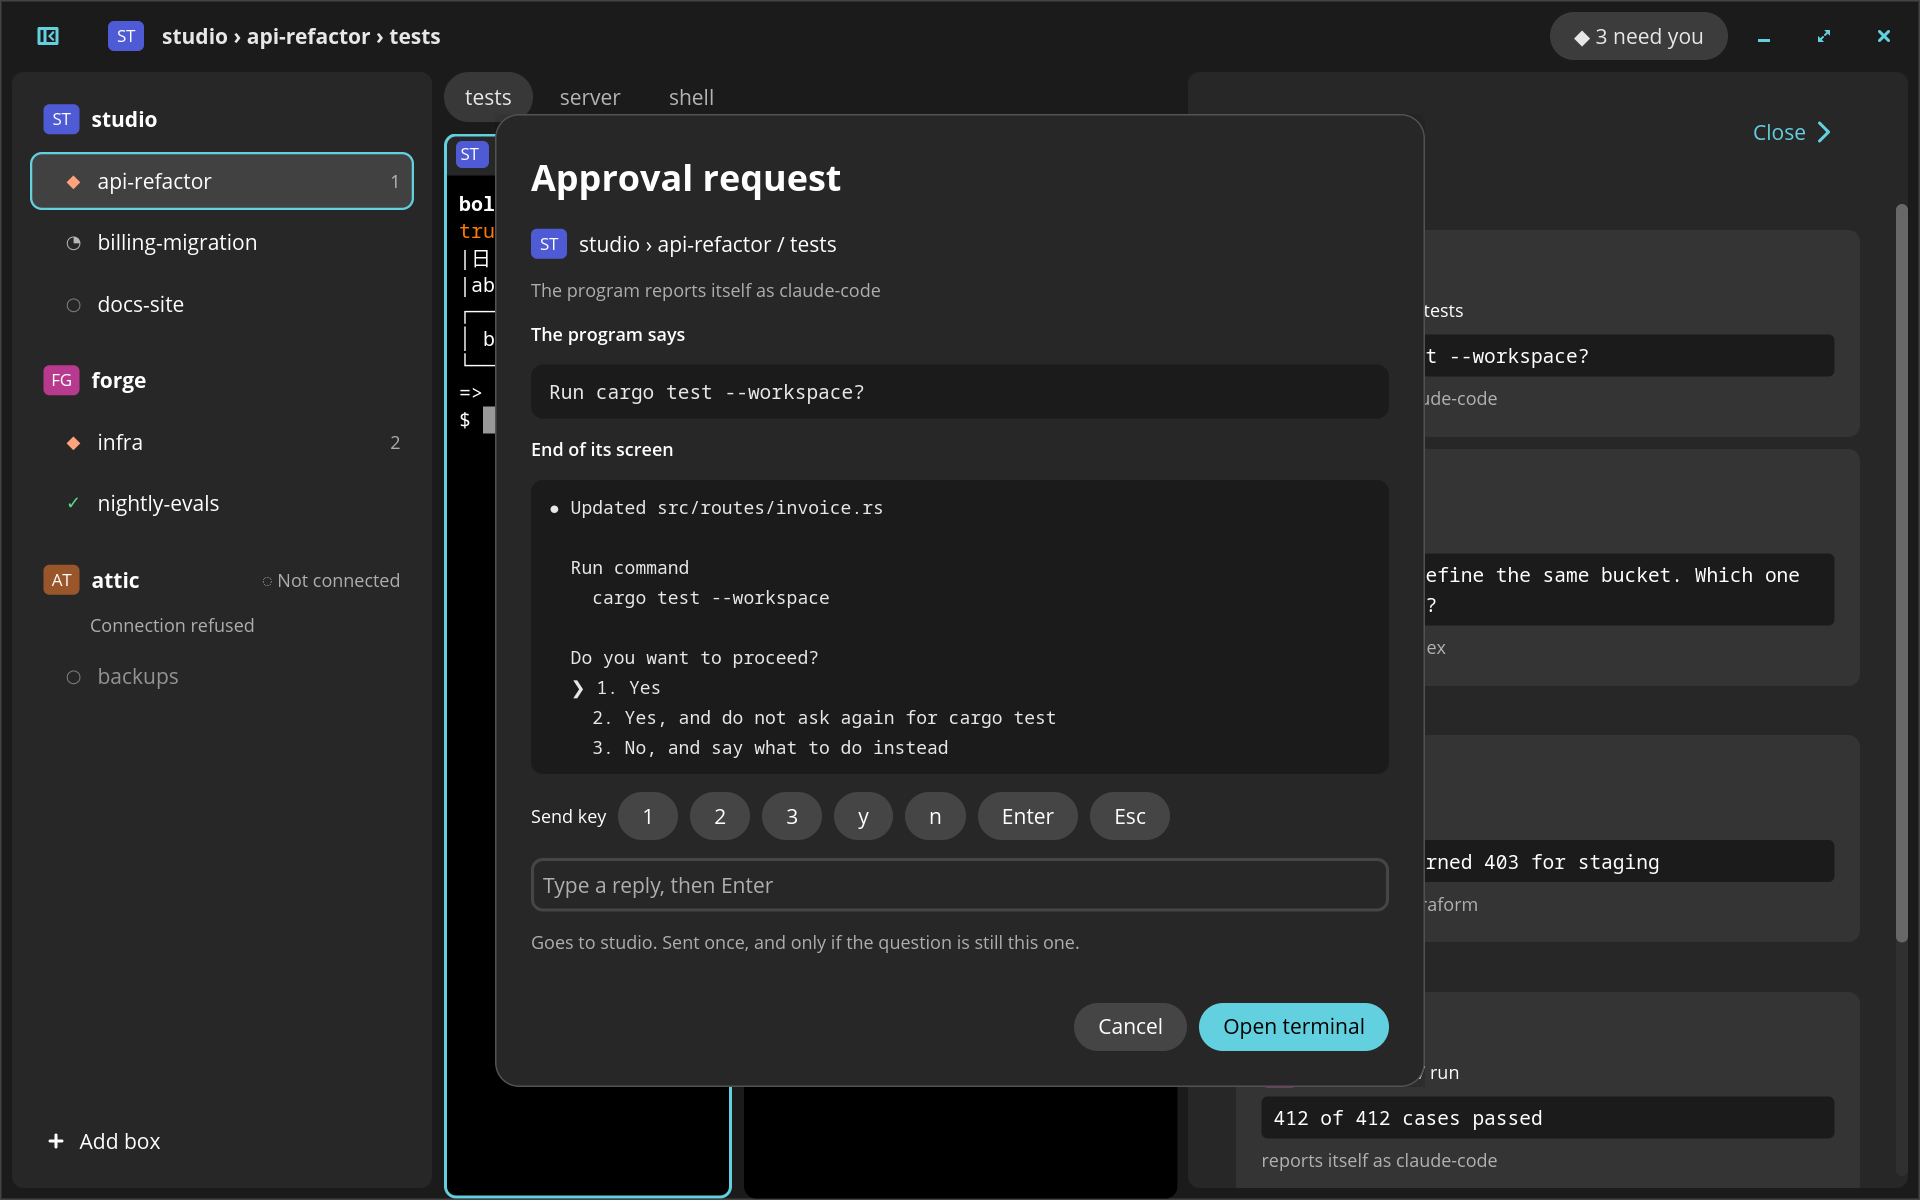
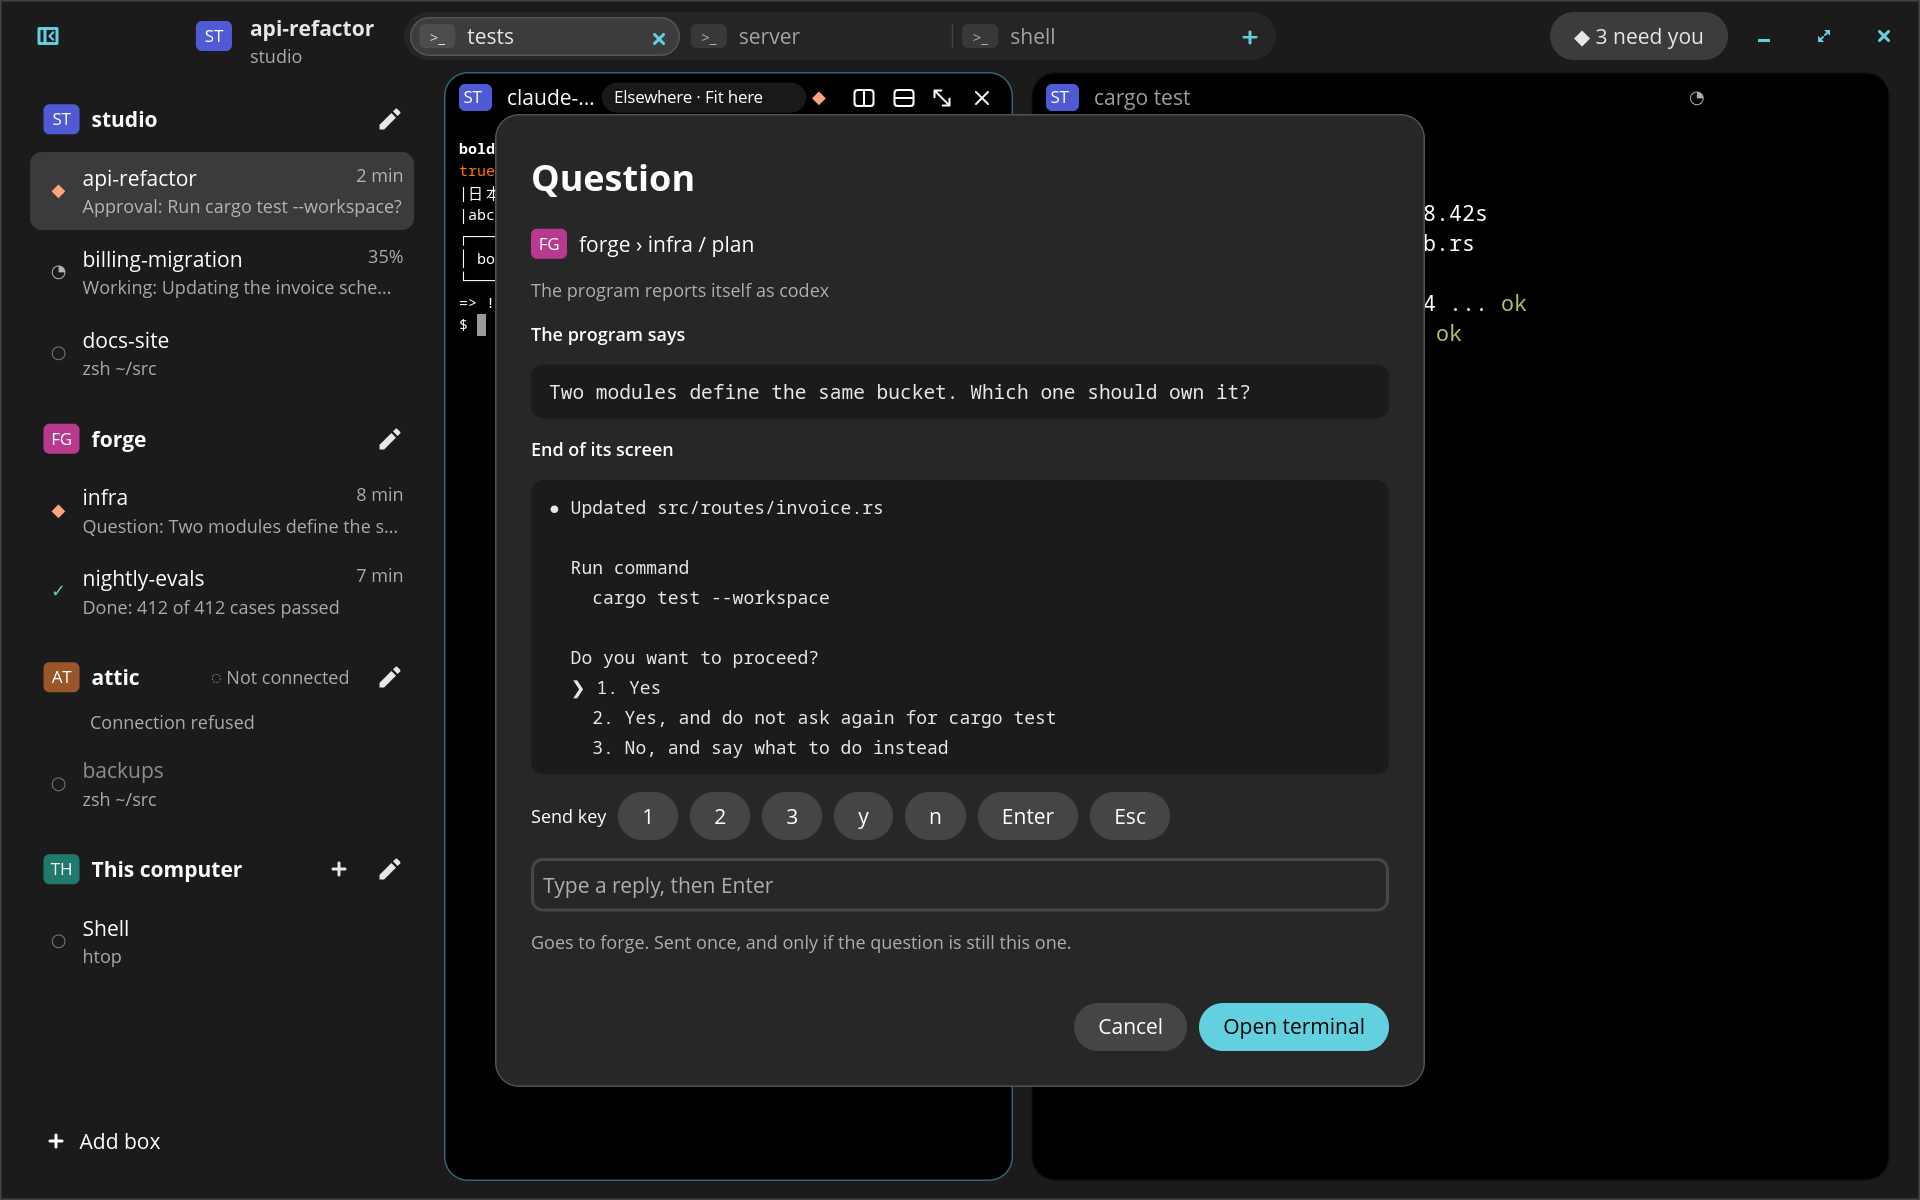
README: what it does, keys, and how the rex-rune core is updated

diff --git a/README.md b/README.md
@@ -2,11 +2,50 @@
 
 An unofficial [Rex](https://www.superlogical.com/rex) client for the COSMIC desktop, in Rust with libcosmic. Work in progress. Not affiliated with Superlogical or System76.
 
-![Demo window: boxes and sessions, split terminals, and one inbox for agents](docs/images/demo.png)
+![Demo window: boxes and their sessions in the sidebar, tabs in the title bar, and two split terminals with their pane buttons](docs/images/demo.png)
 
-## A fork, in two halves
+## What it does
 
-The backend is [rex-rune](https://github.com/shuv1337/rex-rune) (MIT, Copyright 2026 shuv), used unmodified as a pinned dependency: protocol, SSH and Tailscale, reconnection, and terminal state. The frontend, typing path and box model here are new; some small pieces, such as key naming, are adapted from it. Its licence is in [docs/licenses](docs/licenses/rex-rune.txt).
+- **Boxes and sessions.** The sidebar lists each box (a Rex server) and its sessions, with what each is doing, how long it has waited and how far it has got. Boxes can be renamed or readdressed; sessions have a menu (open, rename, move, close) and can be dragged into order.
+- **Tabs and splits.** Tabs sit in the title bar and have their own menu for renaming and closing. Each pane has buttons to split right or down, zoom and close, and a right-click menu with copy, paste, select all and clear. Closing asks first.
+- **Sizes are shared fairly.** A pane sized by another device says so ("Elsewhere · Fit here"); typing never takes its size, and fitting it here is one click.
+- **Select and copy** on this client's own copy of the screen, so nothing reaches the program. Programs that ask for the mouse get it unless Shift is held.
+- **One inbox for agents.** Questions, approvals, errors and finished runs from every box, grouped by what they need, with the count in the title bar.
+
+  ![The inbox beside a terminal: a question, an approval, an error and a finished run](docs/images/inbox.png)
+
+- **Answer from the inbox.** An answer sheet shows what the program said and the end of its screen, with buttons for the keys it expects or a typed reply. It is sent once, and only if the question is still the same one.
+
+  ![An answer sheet for an agent's question, with key buttons and a reply field](docs/images/answer.png)
+
+- **This computer's shells,** with no Rex server: choose "Use this computer" when adding a box, or enter `local` as the address. They have tabs and splits like any other box, and end when the app closes.
+- **Local echo** draws typing before the server confirms it, underlined until it does.
+
+### Keys
+
+| Keys | Does |
+| --- | --- |
+| Ctrl+Shift+T | New tab |
+| Ctrl+Shift+D / Ctrl+Shift+E | Split right / down |
+| Ctrl+Shift+Enter | Zoom or restore the pane |
+| Ctrl+Shift+W | Close the pane |
+| Ctrl+Shift+C / Ctrl+Shift+V | Copy / paste |
+| Ctrl+Shift+S | Fit a pane sized elsewhere to this window |
+| Ctrl+Shift+A | Open or close the inbox |
+| Ctrl+= / Ctrl+- / Ctrl+0 | Font bigger / smaller / default (also in the View menu) |
+
+## Built on rex-rune
+
+The core is [rex-rune](https://github.com/shuv1337/rex-rune) (MIT, Copyright 2026 shuv): protocol, SSH and Tailscale, reconnection, and terminal state. It is used unmodified, as a git dependency at one revision, and nothing from it is copied into this repo. The frontend, typing path, local shells and box model here are new; some small pieces, such as key naming, are adapted from it. Its licence is in [docs/licenses](docs/licenses/rex-rune.txt).
+
+Only `crates/backend` talks to rex-rune, through a small API of its own, so a change upstream is absorbed there and never reaches the UI. Its contract tests build the core's models from server JSON, so an upgrade that changes parsing, layout or status handling fails the tests instead of shipping.
+
+To take a new rex-rune:
+
+    scripts/update-backend.sh          # upstream's newest master
+    scripts/update-backend.sh <sha>    # or a chosen revision
+
+It moves every pin together (rex-rune and the `rexrs` and `ghostty-vt` it patches), prints the upstream compare link, warns if upstream changed its own pins, then runs the backend and frontend tests. If they fail, the old pins are put back. If they pass, review the compare link and commit `Cargo.toml` and `Cargo.lock`. To try a patched core, point those three entries in the root `Cargo.toml` at a fork.
 
 ## Build
 
@@ -14,5 +53,8 @@ Pop!_OS 24.04: Rust 1.96+, Zig 0.17.1 on `PATH`, and `sudo apt install libxkbcom
 
     cargo run --release                # your saved boxes
     cargo run --release -- --demo      # no server needed (--stress times drawing)
+    cargo run --release -- --endpoint local   # this computer's shells, for this run only
+
+The screenshots come from the demo: `cargo run --release -- --demo [--inbox | --ask] --bench 4 --screenshot shot.ppm`.
 
 See [docs/ARCHITECTURE.md](docs/ARCHITECTURE.md) and [docs/design](docs/design).
